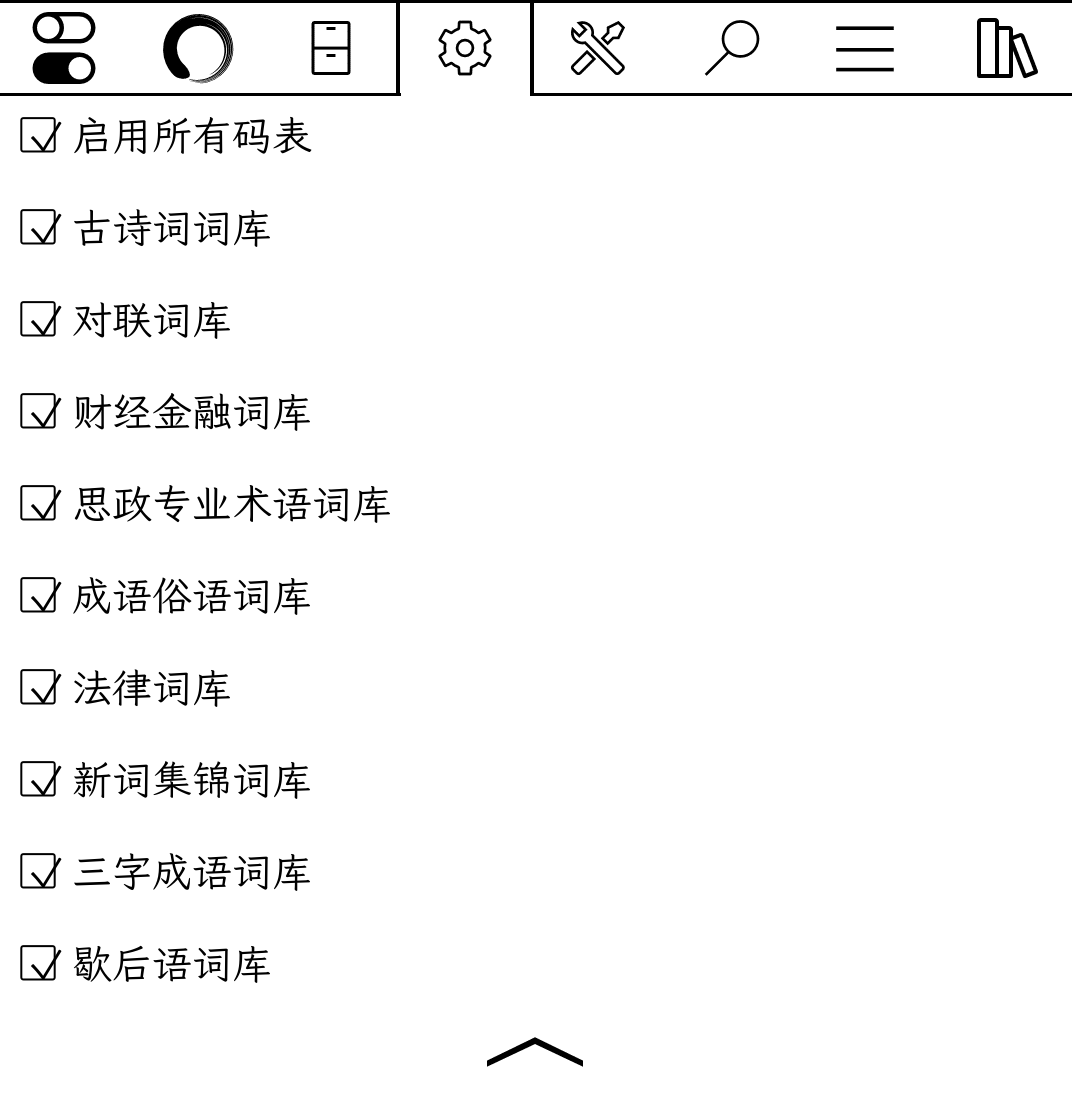
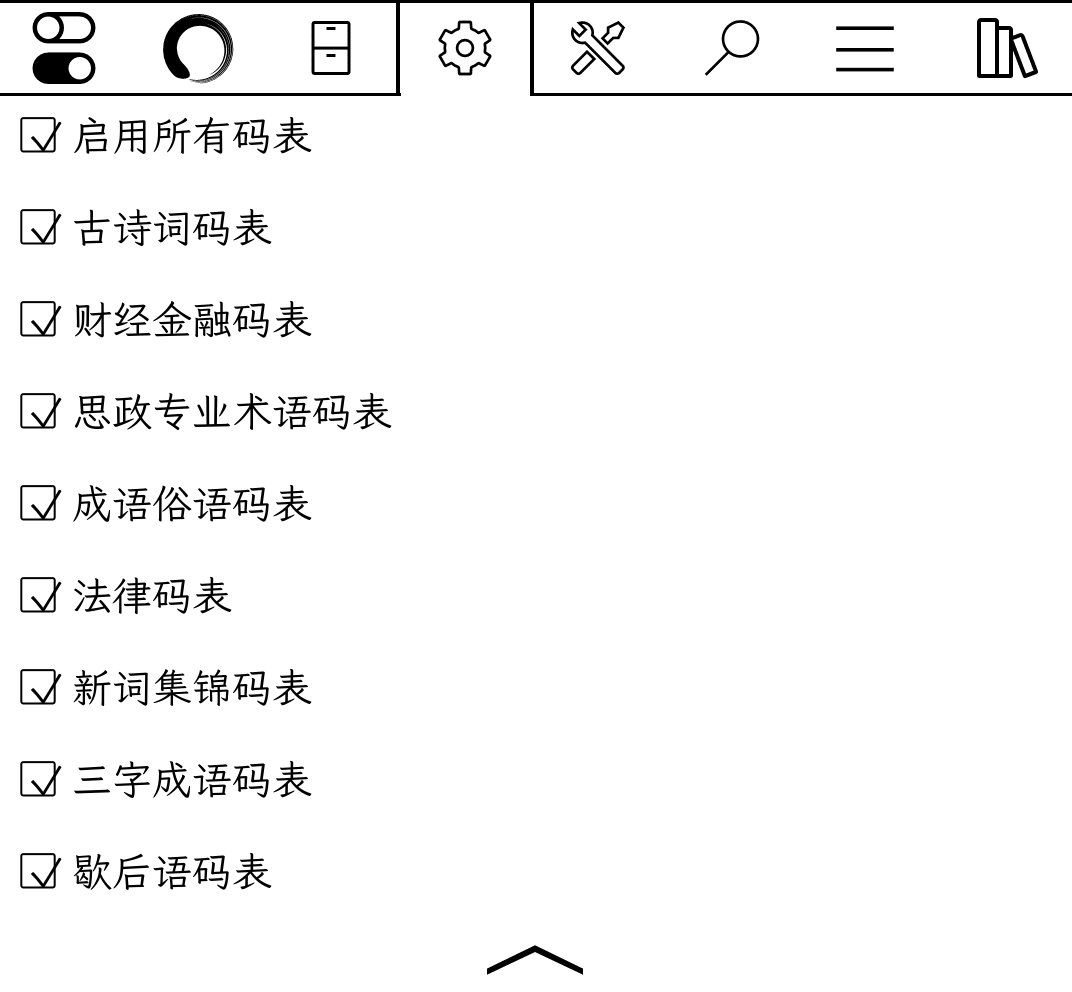
Sync from Gitee sync @ 2026-05-30 01:33:05

diff --git a/README.en.md b/README.en.md
@@ -27,14 +27,14 @@ After downloading and extracting, place the `pinyin_enhancement.koplugin` folder
 | Candidate word limit | Default 56 candidates, can be disabled (may affect performance) |
 | Candidate key width mode | **Dynamic width** (fixed text size); **Fixed width** (text automatically shrinks) |
 | Candidate dynamic width multiplier | 6 options from 0.5x to 1.0x (minimum width ≥ 0.8× width of a single key in the second row) |
-| **⚠ Extra Lexicons** | Enable to load extra lexicons. **⚠ WARNING: Loading a large number of lexicons will consume significant memory and may cause the device to freeze due to insufficient memory. Please be sure to back up the complete `koreader` folder before enabling!** |
+| **⚠ Extended Lexicons** | Enable to load extended lexicons. **⚠ WARNING: Loading a large number of lexicons will consume significant memory and may cause the device to freeze due to insufficient memory. Please be sure to back up the complete `koreader` folder before enabling!** |
 | Enable frequency sort | When enabled, candidate words are sorted by usage frequency (most used first). Words with the same frequency keep their original order |
 | Clear candidate word history | Clear history to restore original candidate order |
 
 4. Candidate Word Sources:
    - KOReader source table: `ui/data/keyboardlayouts/zh_pinyin_data.lua`
    - Initial Pinyin lexicon: `zh_pinyin_data_abbr.lua`
-   - Extra lexicons: `lexicon`
+   - Extended lexicons: `lexicon`
 
 #### Initial Pinyin Lexicon Description
 
@@ -48,20 +48,22 @@ After downloading and extracting, place the `pinyin_enhancement.koplugin` folder
 
 - Vocabulary source: `https://pinyin.sogou.com/dict/`
 - Conversion tool: `node.js` (converts `scel` format to koreader standard `lua` format)
-- Custom lexicons: If you need to add a custom lexicon, simply place your self-made lexicon file (ensure correct format) into the `lexicon` folder. The plugin will automatically scan all lexicons in this folder and display them in the `Extra Lexicons` menu. Find the lexicon in the menu and enable it.
+- Custom lexicons: If you need to add a custom lexicon, simply place your self-made lexicon file (ensure correct format) into the `lexicon` folder. The plugin will automatically scan all lexicons in this folder and display them in the `Extended Lexicons` menu. Find the lexicon in the menu and enable it.
 
 - **⚠ WARNING: Loading a large number of lexicons will consume significant memory and may cause the device to freeze due to insufficient memory. Please be sure to back up the complete `koreader` folder before enabling!**
+- **⚠ WARNING: Custom user-added lexicons must not be too large (exceeding 1MB), as they may also cause the device to freeze due to insufficient memory. Please be sure to back up the complete koreader folder before enablin!**
+
 
 | Filename | Menu Display Name | Type |
 |----------|-------------------|------|
-| `Classical Poetry.lua` | 古诗词词库 | File |
-| `Finance.lua` | 财经金融词库 | File |
-| `Ideological.lua` | 思政专业术语词库 | File |
-| `Idiom` | 成语俗语词库 | Folder |
-| `Legal.lua` | 法律词库 | File |
-| `Neologisms.lua` | 新词集锦词库 | File |
-| `Three-Character Idiom.lua` | 三字成语词库 | File |
-| `WittySaying.lua` | 歇后语词库 | File |
+| `Classical Poetry.lua` | 古诗词码表 | File |
+| `Finance.lua` | 财经金融码表 | File |
+| `Ideological.lua` | 思政专业术语码表 | File |
+| `Idiom` | 成语俗语码表 | Folder |
+| `Legal.lua` | 法律码表 | File |
+| `Neologisms.lua` | 新词集锦码表 | File |
+| `Three-Character Idiom.lua` | 三字成语码表 | File |
+| `WittySaying.lua` | 歇后语码表 | File |
 
 ![Pinyin-Menu](picture/拼音-菜单.png)
 ![Pinyin-Menu-Extra-Lexicons](picture/拼音-菜单-额外词库.png)
